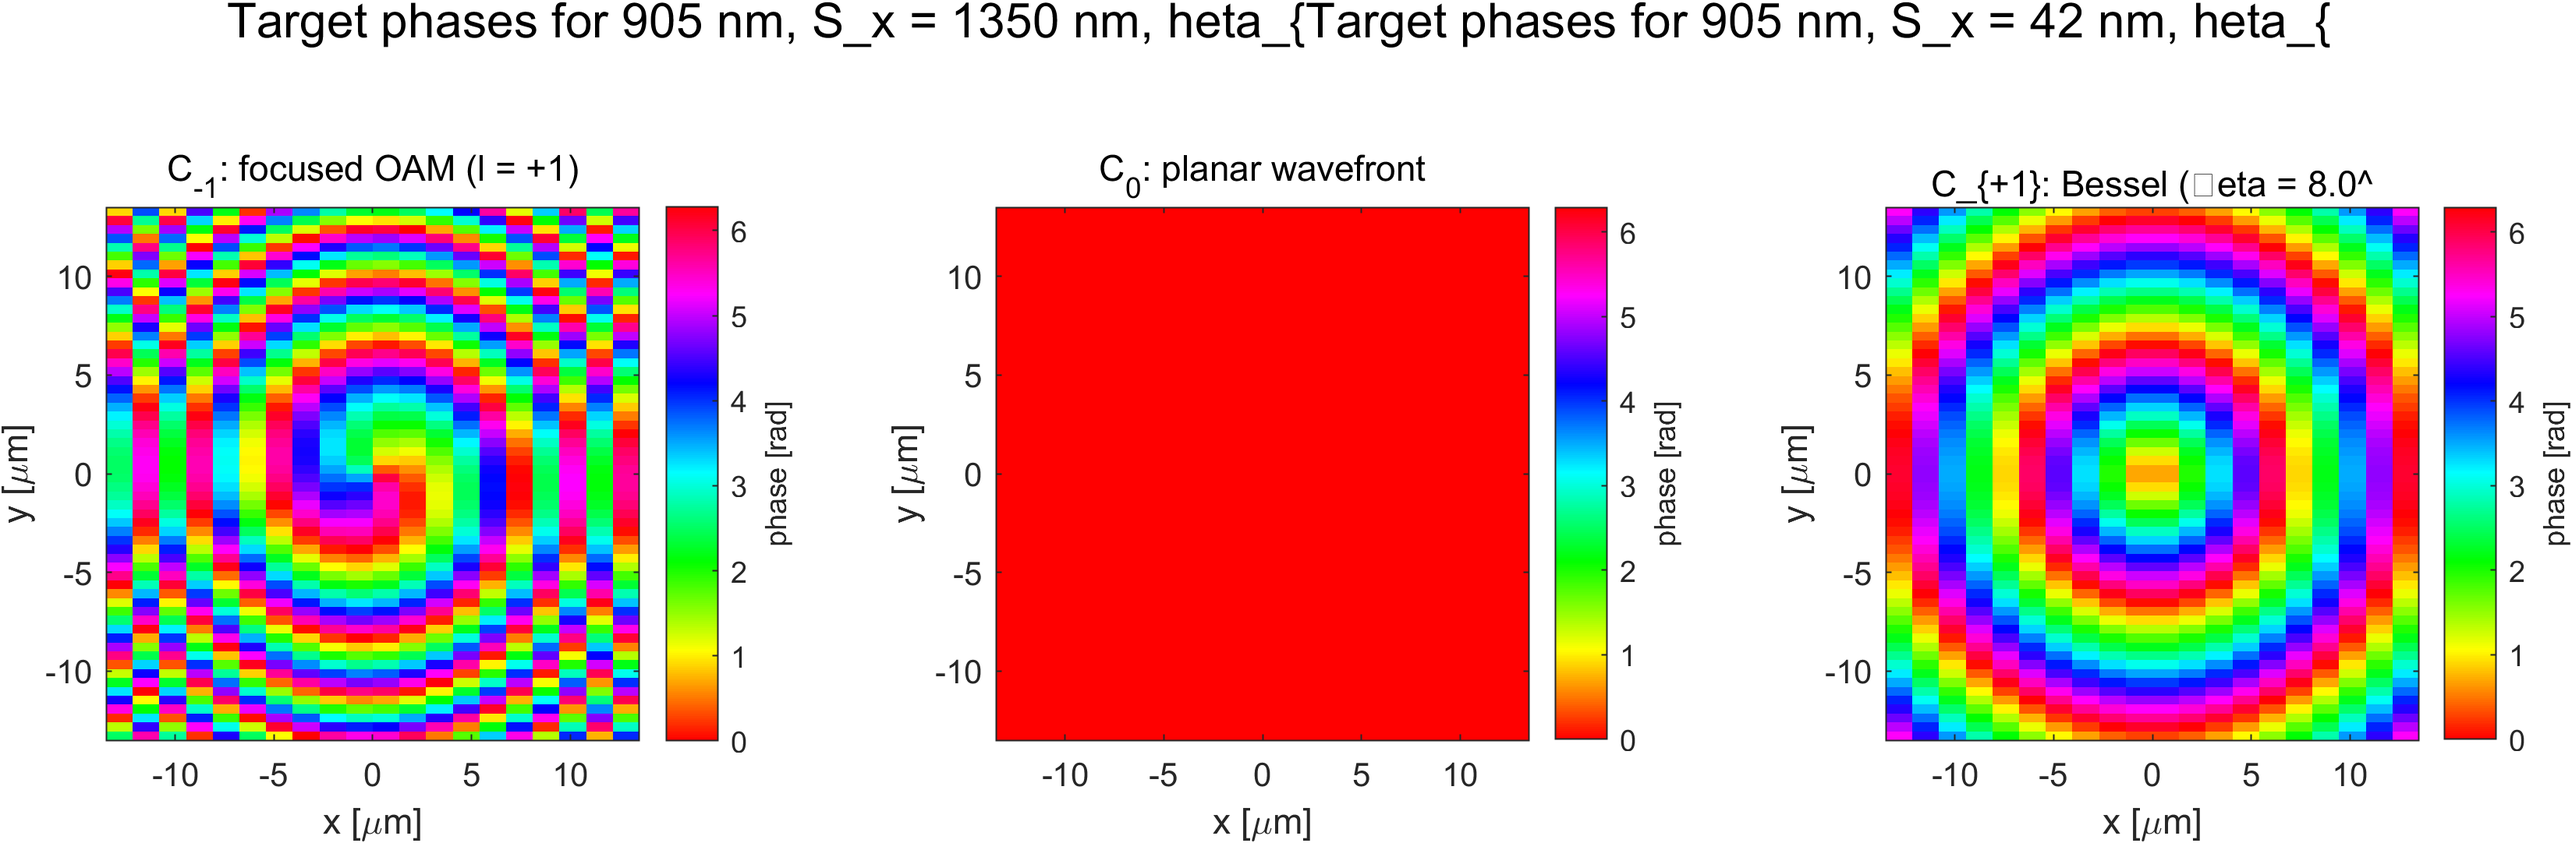
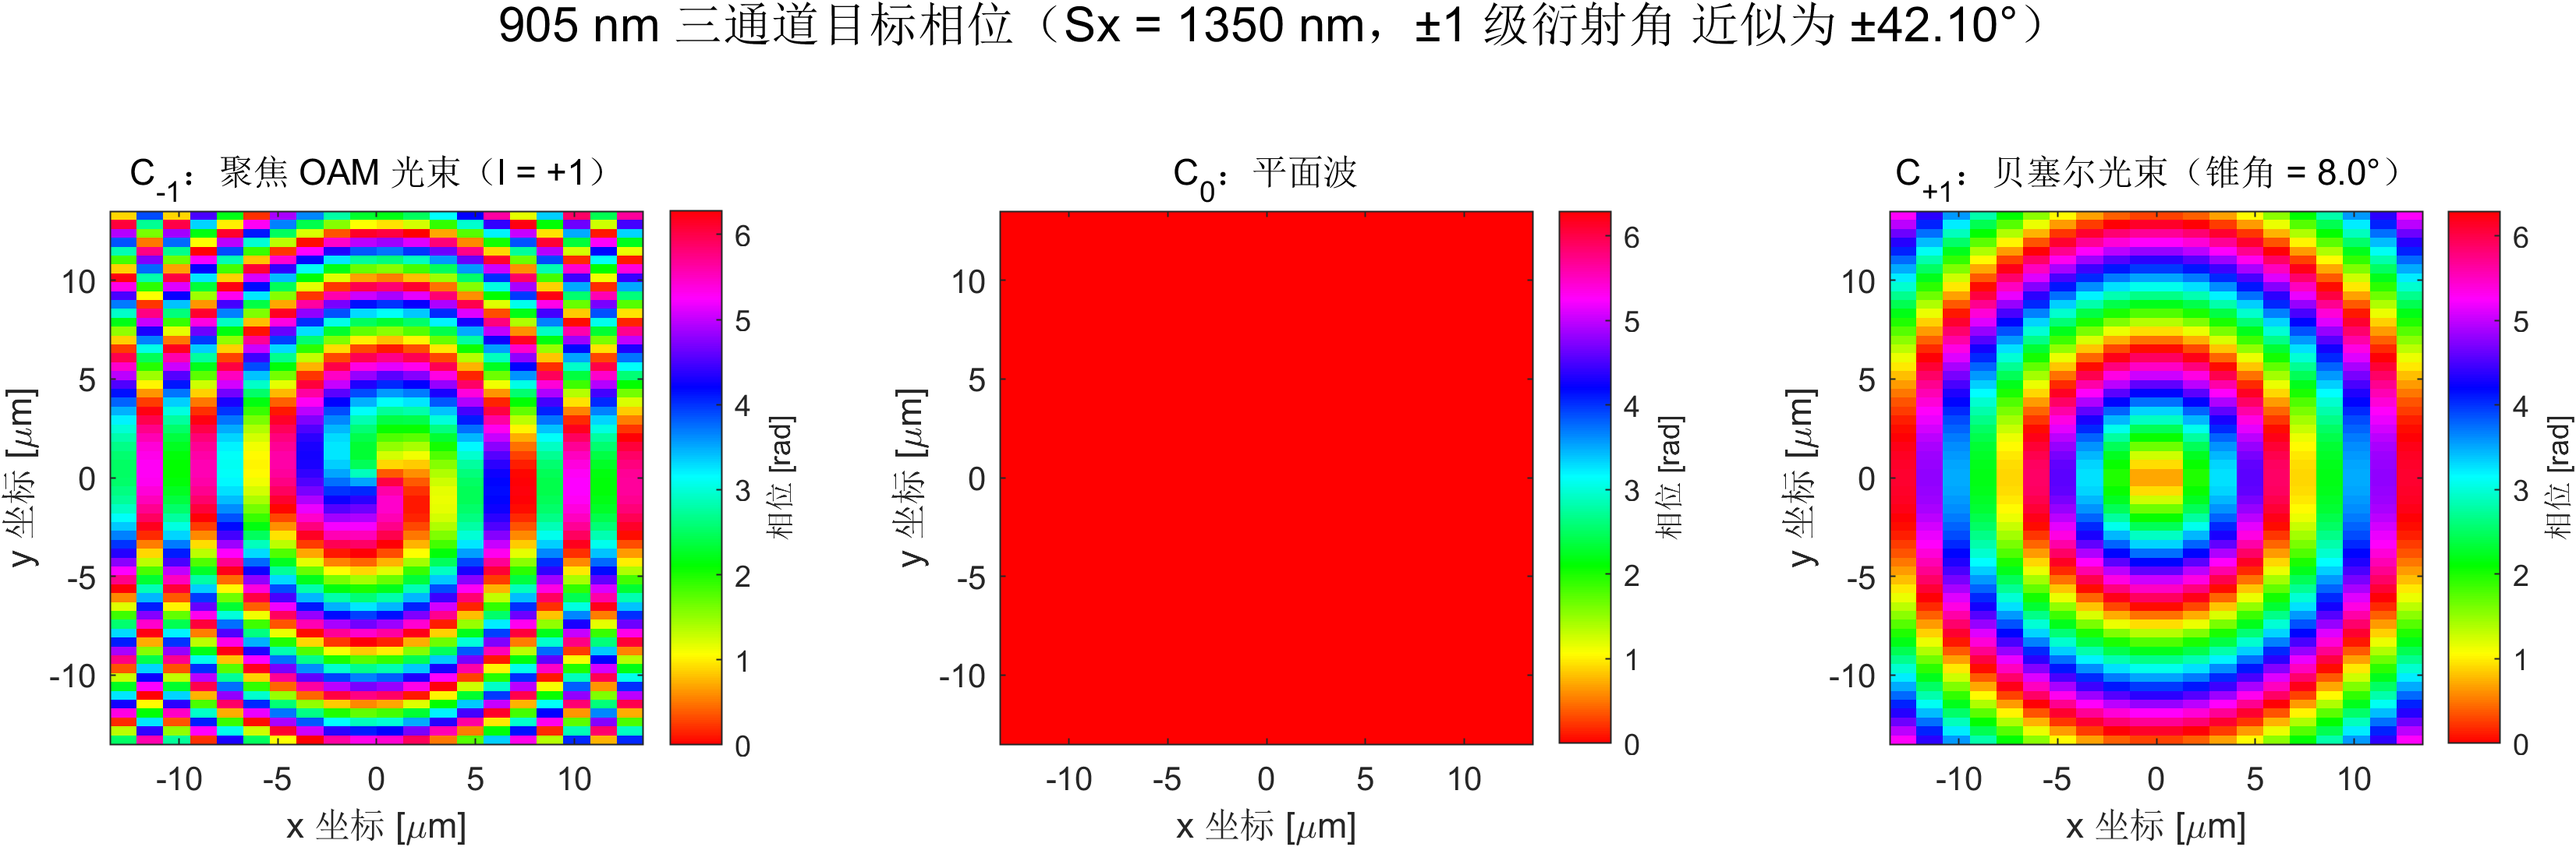
main

diff --git a/905nm_目标相位/generate_target_phases_905nm.m b/905nm_目标相位/generate_target_phases_905nm.m
@@ -120,8 +120,8 @@ for n = 1:3
     cb = colorbar;
     ylabel(cb, '相位 [rad]');
 end
-sgtitle(sprintf(['905 nm 三通道目标相位（S_x = %.0f nm，', ...
-    '\theta_{\pm1} = \pm%.2f^\circ）'], Sx*1e9, theta_p1_deg));
+sgtitle(sprintf('905 nm 三通道目标相位（Sx = %.0f nm，±1 级衍射角 近似为 ±%.2f°）', ...
+    Sx*1e9, theta_p1_deg), 'Interpreter', 'none');
 exportgraphics(gcf, fullfile(output_dir, 'target_phase_maps_905nm.png'), ...
     'Resolution', 300);
 
